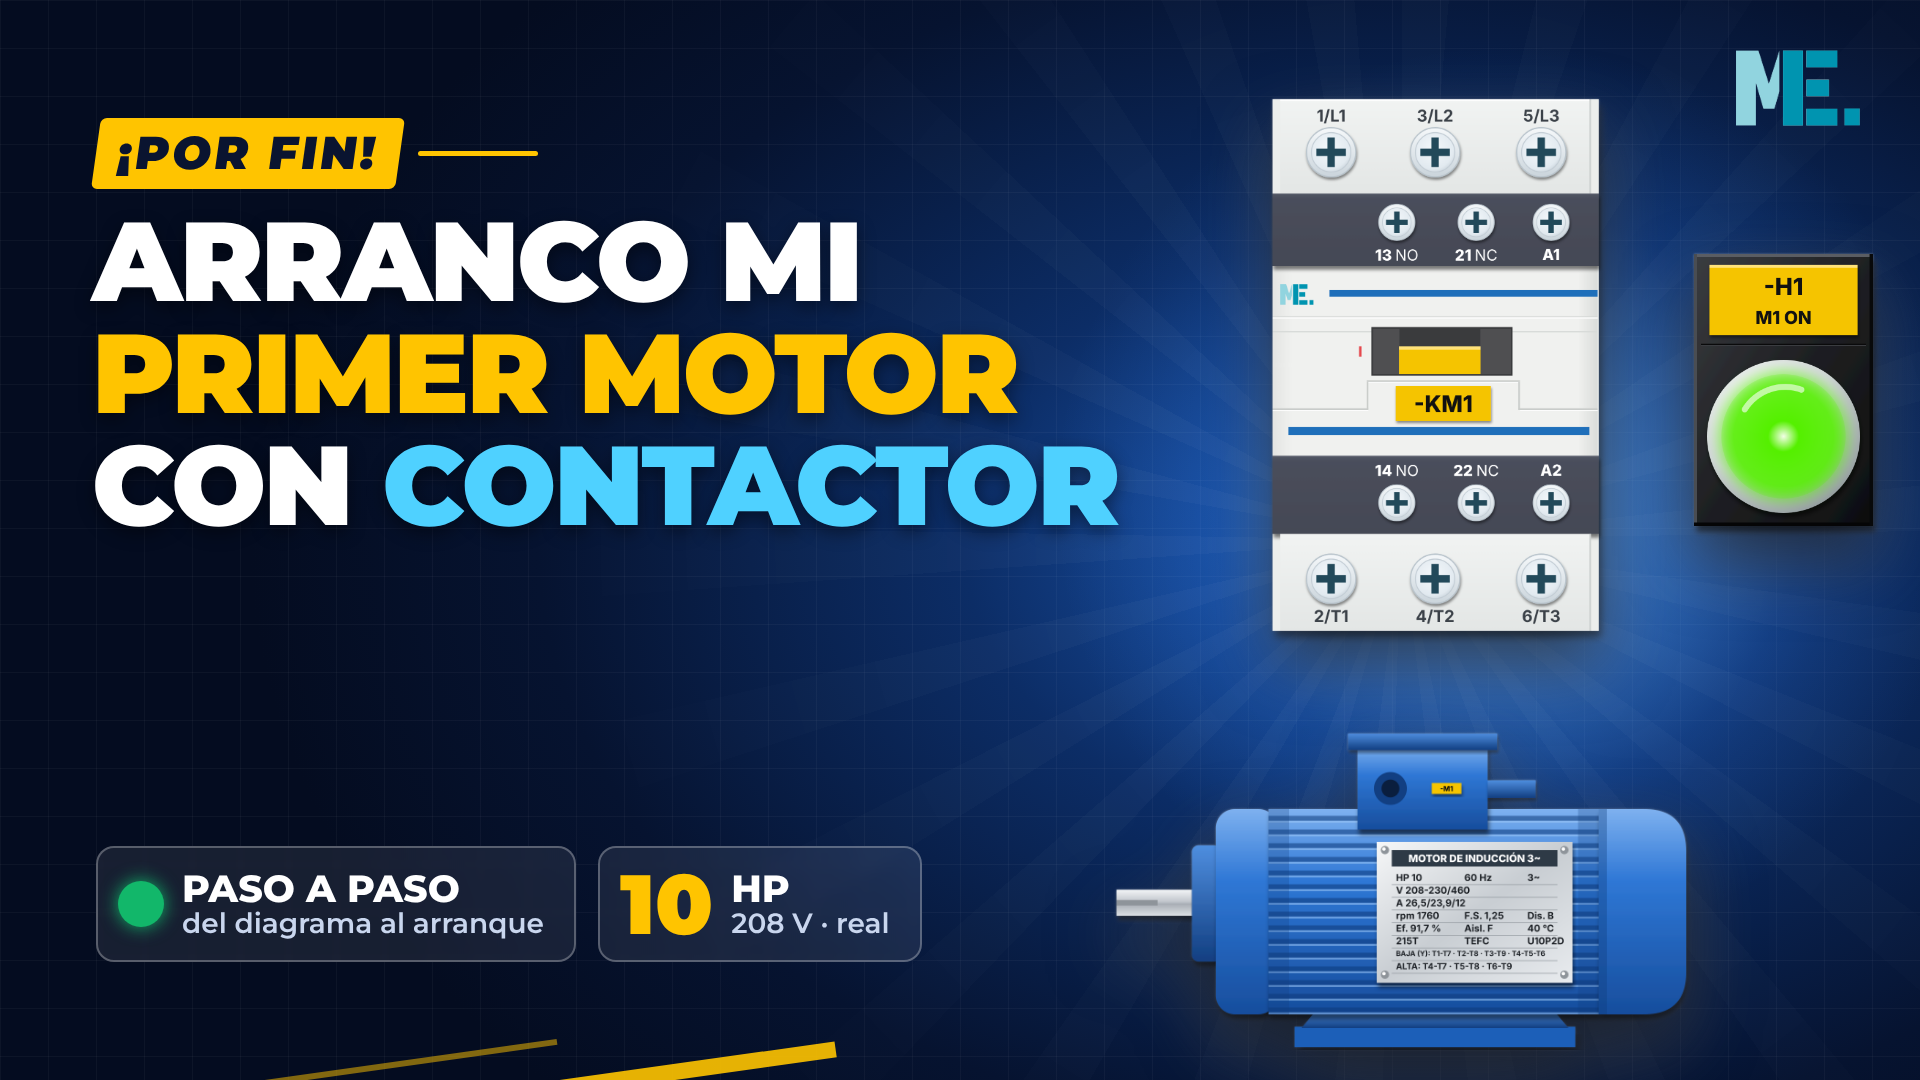
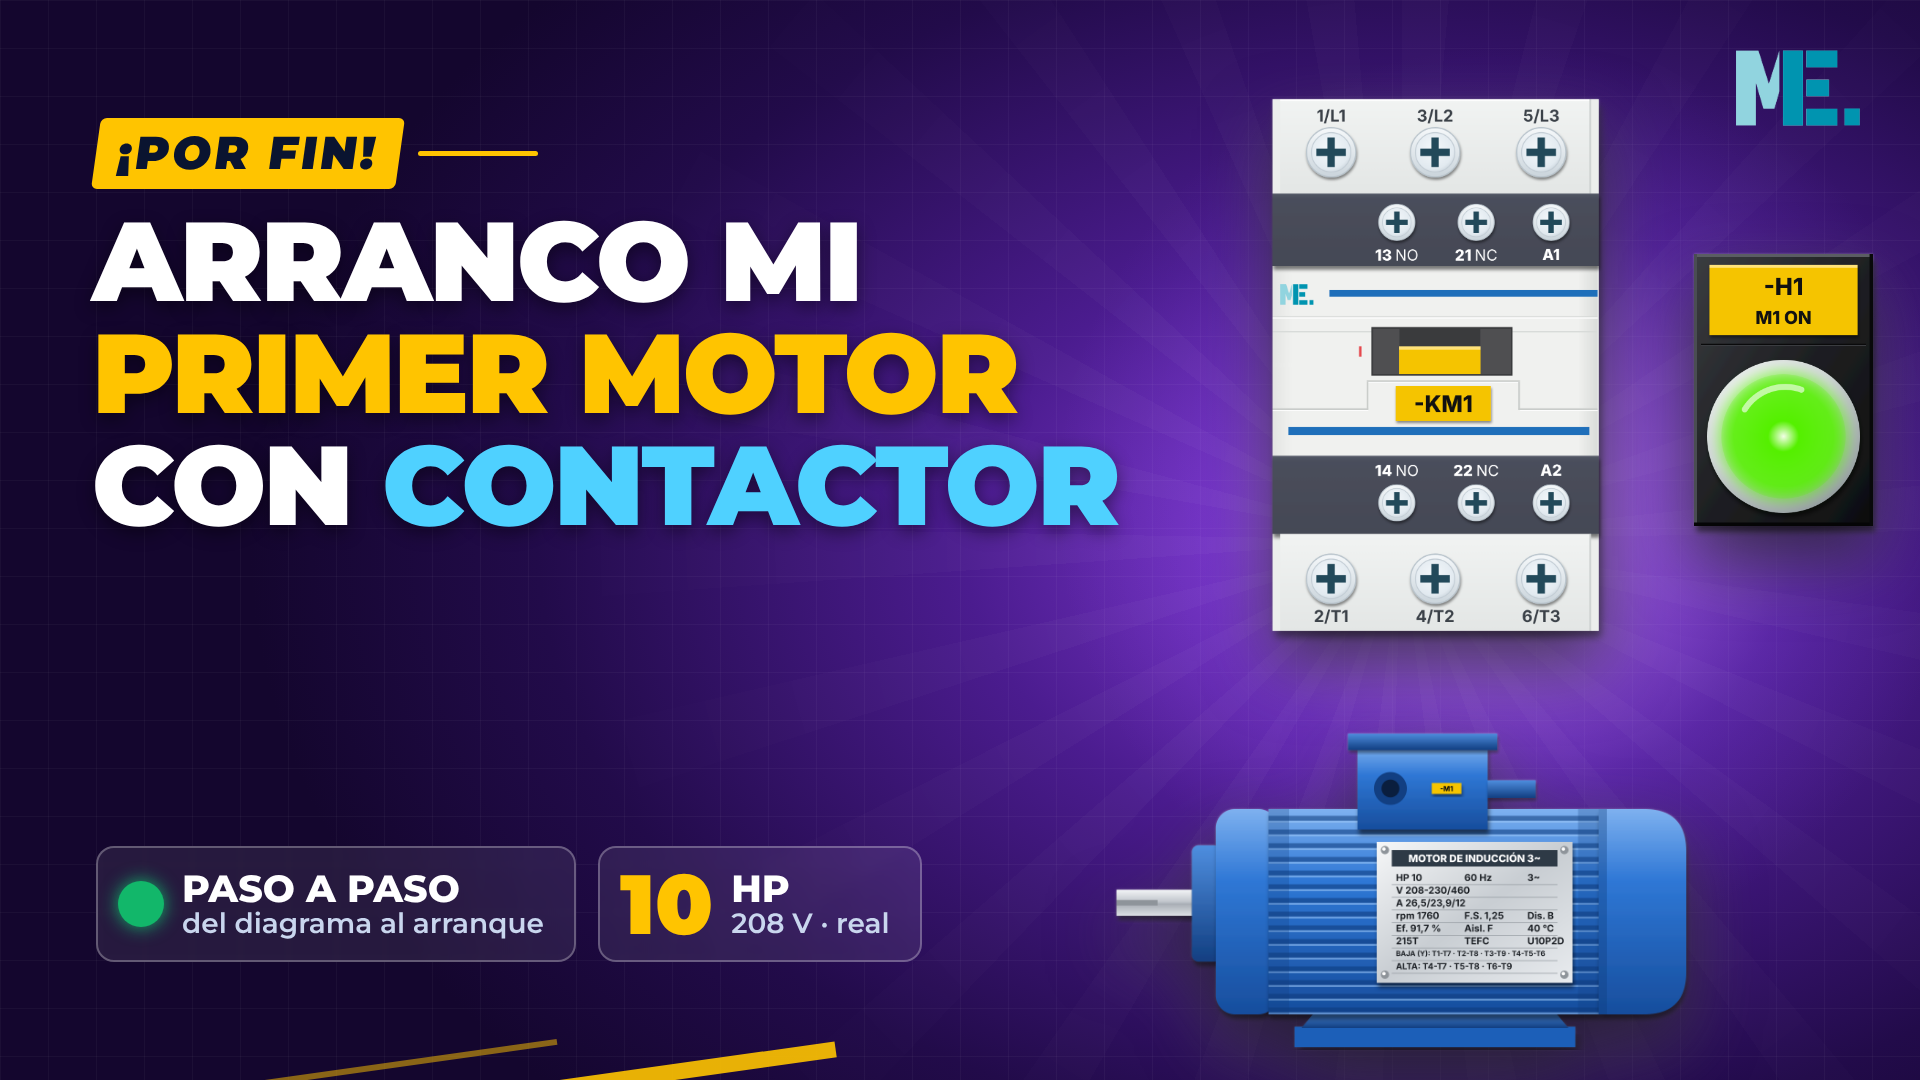
Miniatura H01 arranque: fondo morado para diferenciar los videos de proceso
Claude-Session: https://claude.ai/code/session_01PXbN6AjaUdwQ9uVhc3uYbs

diff --git a/manim/miniaturas_pro/H01_arranque.html b/manim/miniaturas_pro/H01_arranque.html
@@ -26,6 +26,9 @@ img.eq{position:absolute;filter:drop-shadow(0 30px 34px rgba(0,0,0,.6)) drop-sha
 .chip .ico{width:46px;height:46px;border-radius:50%;background:#12B76A;box-shadow:0 0 18px #12B76A}
 .logo{position:absolute;right:60px;top:50px;height:76px}
 .tag{position:absolute;font-weight:800;font-size:30px;color:#fff;background:rgba(6,19,48,.85);border:2px solid #FFC400;border-radius:10px;padding:6px 16px}
+
+body{background:radial-gradient(ellipse 60% 75% at 73% 50%,#8B3FE0 0%,#4B1C8F 38%,#220B4A 75%,#14062E 100%)}
+.halo{background:radial-gradient(circle,rgba(205,150,255,.55),rgba(150,90,255,.15) 45%,transparent 70%)}
 </style></head><body><div class='rayos'></div><div class='grid'></div>
 <div class='halo' style='left:1050px;top:40px;width:920px;height:920px'></div>
 <img class='eq' src='../h01v5_eq/M1.png' style='left:1080px;top:600px;height:470px'>

diff --git a/manim/miniaturas_pro/gen.py b/manim/miniaturas_pro/gen.py
@@ -44,6 +44,11 @@ CSS_PROC = """
 .flecha{position:absolute;color:#FFC400;font-weight:900;font-size:150px;line-height:1;text-shadow:0 0 24px rgba(255,196,0,.7)}
 """
 
+CSS_MORADO = """
+body{background:radial-gradient(ellipse 60% 75% at 73% 50%,#8B3FE0 0%,#4B1C8F 38%,#220B4A 75%,#14062E 100%)}
+.halo{background:radial-gradient(circle,rgba(205,150,255,.55),rgba(150,90,255,.15) 45%,transparent 70%)}
+"""
+
 
 def pagina(cuerpo, css=""):
     return f"<!doctype html><html><head><meta charset='utf-8'><style>{CSS}{css}</style></head><body>" \
@@ -78,7 +83,7 @@ MINIS = {
 <img class='eq' src='{EQ}/H1on.png' style='left:1670px;top:230px;height:320px'>
 <div class='kicker'><span>¡POR FIN!</span><i></i></div>
 <div class='titulo' style='font-size:112px;width:1120px'>Arranco mi <b>primer motor</b> con <em>contactor</em></div>
-<div class='chips'><div class='chip'><div class='ico'></div><div class='t'>PASO A PASO<small>del diagrama al arranque</small></div></div>{chip("10", "HP", "208 V · real")}</div>"""),
+<div class='chips'><div class='chip'><div class='ico'></div><div class='t'>PASO A PASO<small>del diagrama al arranque</small></div></div>{chip("10", "HP", "208 V · real")}</div>""", CSS_MORADO),
     "H01_arranque_proceso": pagina(f"""
 <div class='halo' style='left:560px;top:260px;width:1200px;height:900px;opacity:.75'></div>
 <img class='eq' src='{EQ}/F2on.png' style='left:110px;top:420px;height:480px'>
